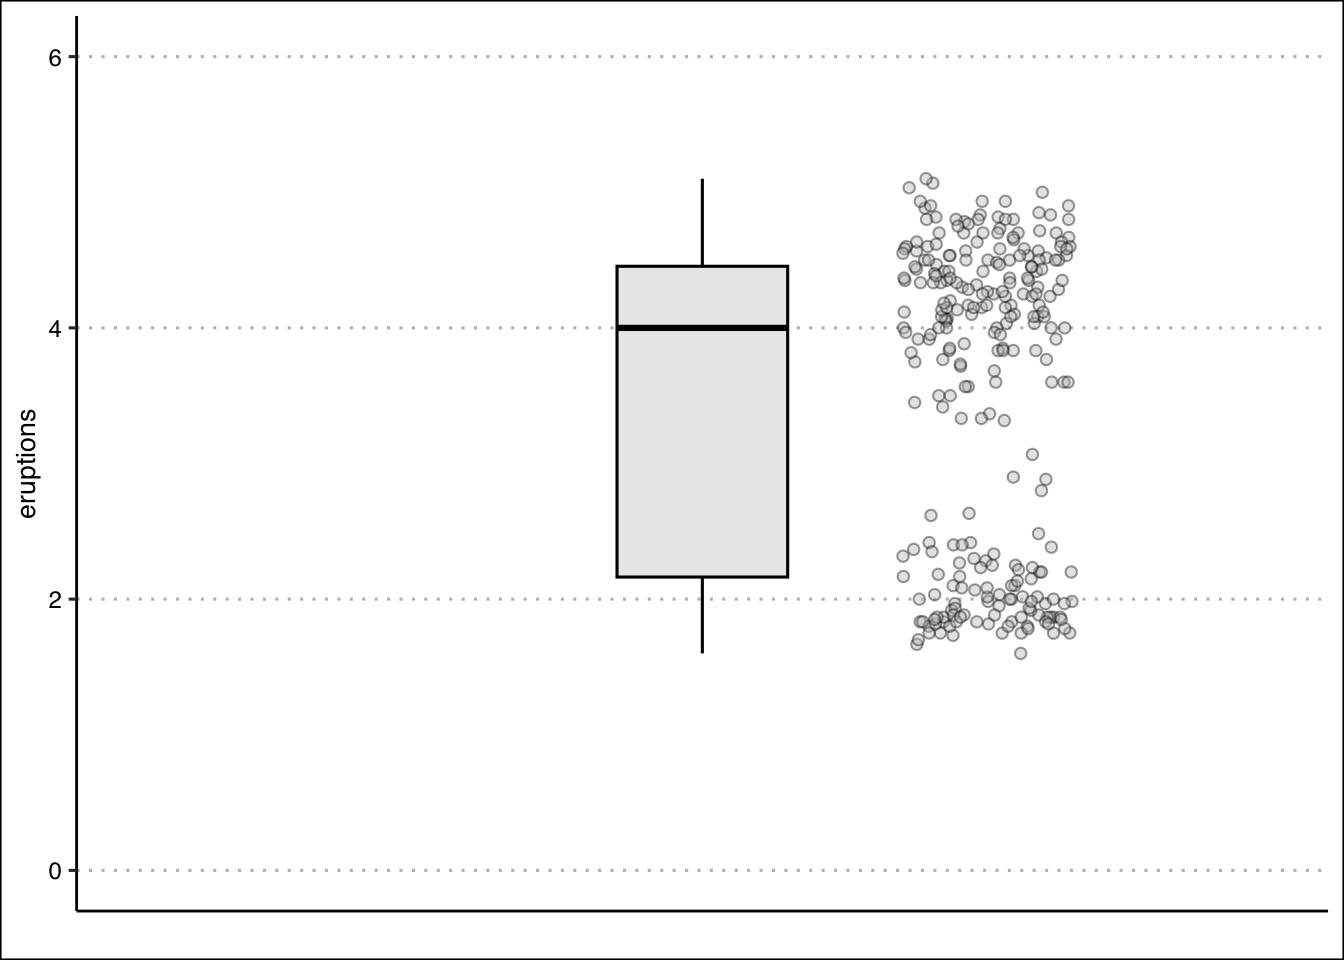
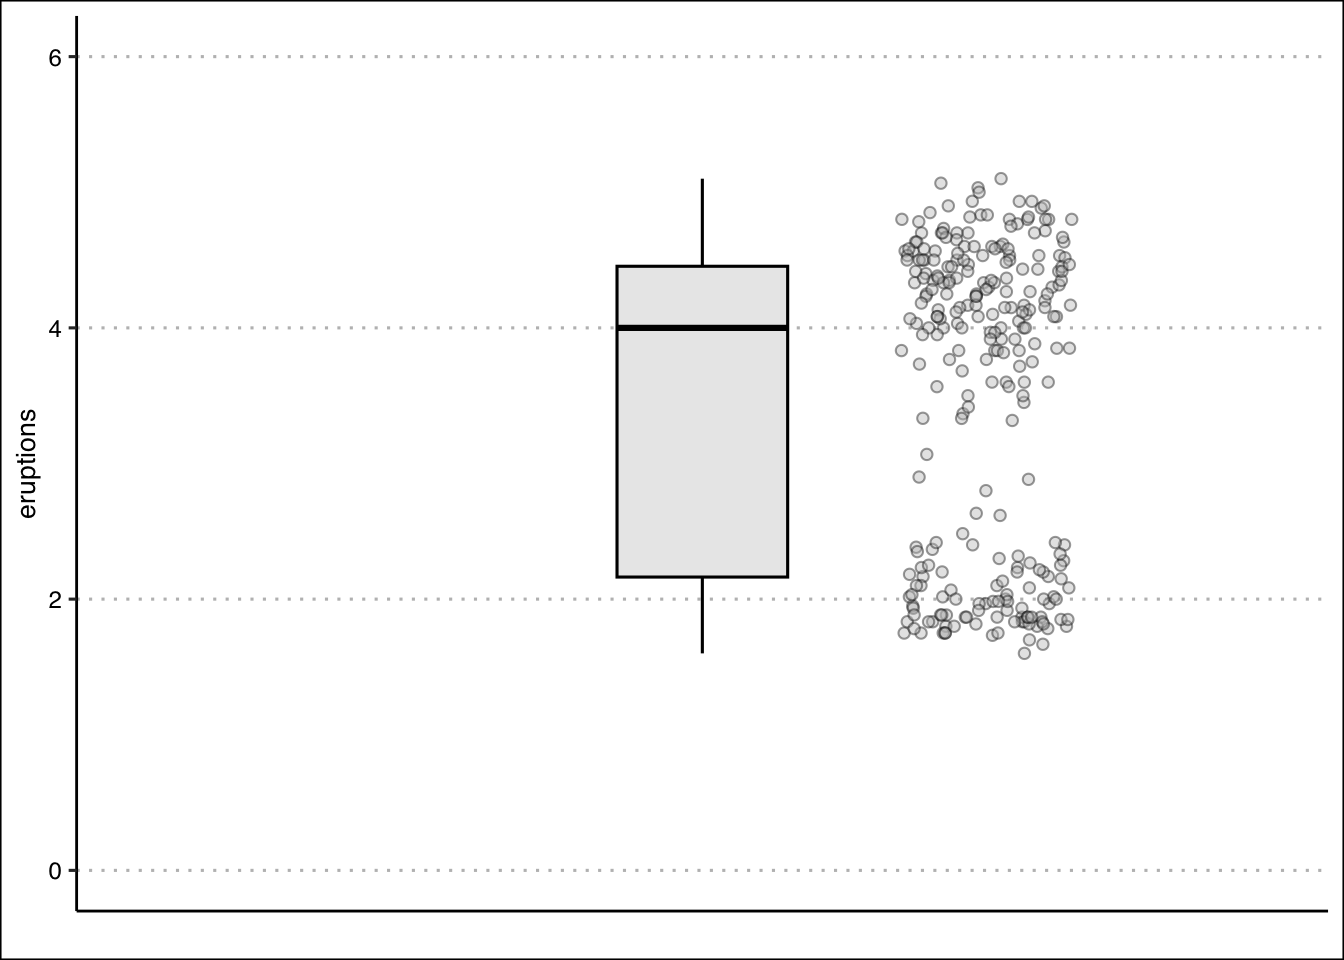
changes

Changed region(s): [[0.6562, 0.1875, 0.8125, 0.4375], [0.6562, 0.4688, 0.8125, 0.6875], [0.6562, 0.4688, 0.6875, 0.5]]

diff --git a/docs/DescriptiveV.html b/docs/DescriptiveV.html
@@ -382,6 +382,9 @@ details summary {
 <section id="chebyshevs-theorem" class="level2" data-number="5.2">
 <h2 data-number="5.2" class="anchored" data-anchor-id="chebyshevs-theorem"><span class="header-section-number">5.2</span> Chebyshev’s Theorem</h2>
 <p>Chebyshev’s Theorem is an important theorem, as it helps you form an expectation of the proportion of data that must lie between a given standard deviation from the mean. This offers a baseline to understanding the range and distribution of your data, and aids in detecting outliers. Formally, <strong>Chebyshev’s Theorem</strong> states that regardless of the shape of the distribution, at least (<span class="math inline">\(1-1/z^2\)</span>)% of the data lies between <span class="math inline">\(z\)</span> standard deviations from the mean.</p>
+<div class="callout-formula">
+<p><strong>CHEBYSHEV’S THEOREM</strong> <span class="math display">\[1 - \frac{1}{k^2}\]</span> where <span class="math inline">\(k\)</span> is the number of standard deviations from the mean and <span class="math inline">\(k &gt; 1\)</span>.</p>
+</div>
 <div class="callout-example">
 <p><strong>Example:</strong> For a given data set, we want to know at least how much of the data lies within two standard deviations of the mean. Substituting <span class="math inline">\(k=2\)</span> into Chebyshev’s formula yields <span class="math inline">\(1-\frac{1}{2^2}=1-\frac{1}{4}=0.75\)</span>. Hence, at least <span class="math inline">\(75\%\)</span> of the data lies within two standard deviations from the mean.</p>
 </div>
@@ -414,7 +417,26 @@ details summary {
 </section>
 <section id="skew" class="level2" data-number="5.5">
 <h2 data-number="5.5" class="anchored" data-anchor-id="skew"><span class="header-section-number">5.5</span> Skew</h2>
-<p>A measurement of skew, identifies asymmetry in the distribution of data. If most of the data leans towards one side, it’s skewed. If it leans to the left, it’s left-skewed or negatively skewed, meaning the tail on the left side is longer. If it leans to the right, it’s right-skewed or positively skewed, with a longer tail on the right. If the data is evenly distributed, it’s not skewed at all, it’s symmetric. To determine if the data is skewed, calculate the <strong>Pearson’s Coefficient of Skew</strong>. <span class="math inline">\(Sk=\frac{3(\bar {x}- Median)}{s_x}\)</span>. The distribution is skewed to the left if <span class="math inline">\(Sk&lt;0\)</span>, skewed to the right is <span class="math inline">\(Sk&gt;0\)</span>, and symmetric if <span class="math inline">\(Sk=0\)</span>.</p>
+<p>A measurement of skew, identifies asymmetry in the distribution of data. If most of the data leans towards one side, it’s skewed. If it leans to the left, it’s left-skewed or negatively skewed, meaning the tail on the left side is longer. If it leans to the right, it’s right-skewed or positively skewed, with a longer tail on the right. If the data is evenly distributed, it’s not skewed at all, it’s symmetric. To determine if the data is skewed, calculate the <strong>Coefficient of Skew</strong>.</p>
+<div class="callout-formula">
+<p><strong>SKEWNESS</strong> <span class="math display">\[Sk=\frac{n}{(n-1)(n-2)}\sum\left(\frac{x_i-\bar{x}}{s}\right)^3\]</span> where <span class="math inline">\(n\)</span> is the sample size, <span class="math inline">\(\bar{x}\)</span> is the sample mean, and <span class="math inline">\(s\)</span> is the sample standard deviation.</p>
+<table class="caption-top table">
+<thead>
+<tr class="header">
+<th style="text-align: center;"><span class="math inline">\(Sk &lt; 0\)</span></th>
+<th style="text-align: center;"><span class="math inline">\(Sk = 0\)</span></th>
+<th style="text-align: center;"><span class="math inline">\(Sk &gt; 0\)</span></th>
+</tr>
+</thead>
+<tbody>
+<tr class="odd">
+<td style="text-align: center;">Left-skewed</td>
+<td style="text-align: center;">Symmetric</td>
+<td style="text-align: center;">Right-skewed</td>
+</tr>
+</tbody>
+</table>
+</div>
 <p>The image below shows the different types of skew:</p>
 <div class="cell" data-layout-align="center">
 <div class="cell-output-display">
@@ -426,7 +448,55 @@ details summary {
 </div>
 </div>
 <div class="callout-example">
-<p><strong>Example:</strong> Assume that for a variable the mean is 10, the median is 8, and the standard deviation is 3. The Pearson coefficient of skew is equal to* <span class="math inline">\(Sk=3(10-8)/3=2\)</span>. Since the skew is positive, we expect the distribution to be right skewed.</p>
+<p><strong>Example:</strong> Consider the IQ scores <span class="math inline">\(IQ=\{75, 80, 90, 100, 110, 130\}\)</span> with <span class="math inline">\(n=6\)</span>, <span class="math inline">\(\bar{x}=97.5\)</span>, and <span class="math inline">\(s=20.43\)</span>.</p>
+<table class="caption-top table">
+<colgroup>
+<col style="width: 9%">
+<col style="width: 35%">
+<col style="width: 54%">
+</colgroup>
+<thead>
+<tr class="header">
+<th style="text-align: center;"><span class="math inline">\(x_i\)</span></th>
+<th style="text-align: center;"><span class="math inline">\(\frac{x_i-\bar{x}}{s}\)</span></th>
+<th style="text-align: center;"><span class="math inline">\(\left(\frac{x_i-\bar{x}}{s}\right)^3\)</span></th>
+</tr>
+</thead>
+<tbody>
+<tr class="odd">
+<td style="text-align: center;">75</td>
+<td style="text-align: center;"><span class="math inline">\(-1.101\)</span></td>
+<td style="text-align: center;"><span class="math inline">\(-1.335\)</span></td>
+</tr>
+<tr class="even">
+<td style="text-align: center;">80</td>
+<td style="text-align: center;"><span class="math inline">\(-0.857\)</span></td>
+<td style="text-align: center;"><span class="math inline">\(-0.628\)</span></td>
+</tr>
+<tr class="odd">
+<td style="text-align: center;">90</td>
+<td style="text-align: center;"><span class="math inline">\(-0.367\)</span></td>
+<td style="text-align: center;"><span class="math inline">\(-0.050\)</span></td>
+</tr>
+<tr class="even">
+<td style="text-align: center;">100</td>
+<td style="text-align: center;"><span class="math inline">\(0.122\)</span></td>
+<td style="text-align: center;"><span class="math inline">\(0.002\)</span></td>
+</tr>
+<tr class="odd">
+<td style="text-align: center;">110</td>
+<td style="text-align: center;"><span class="math inline">\(0.612\)</span></td>
+<td style="text-align: center;"><span class="math inline">\(0.229\)</span></td>
+</tr>
+<tr class="even">
+<td style="text-align: center;">130</td>
+<td style="text-align: center;"><span class="math inline">\(1.591\)</span></td>
+<td style="text-align: center;"><span class="math inline">\(4.024\)</span></td>
+</tr>
+</tbody>
+</table>
+<p><span class="math display">\[Sk = \frac{6}{(5)(4)}\times(2.242) = \frac{6}{20}\times 2.242 = 0.673\]</span></p>
+<p>Since <span class="math inline">\(Sk &gt; 0\)</span> the distribution is right-skewed, which makes intuitive sense — most IQ scores cluster below the mean while the score of <span class="math inline">\(130\)</span> pulls the tail to the right.</p>
 </div>
 </section>
 <section id="kurtosis" class="level2" data-number="5.6">
